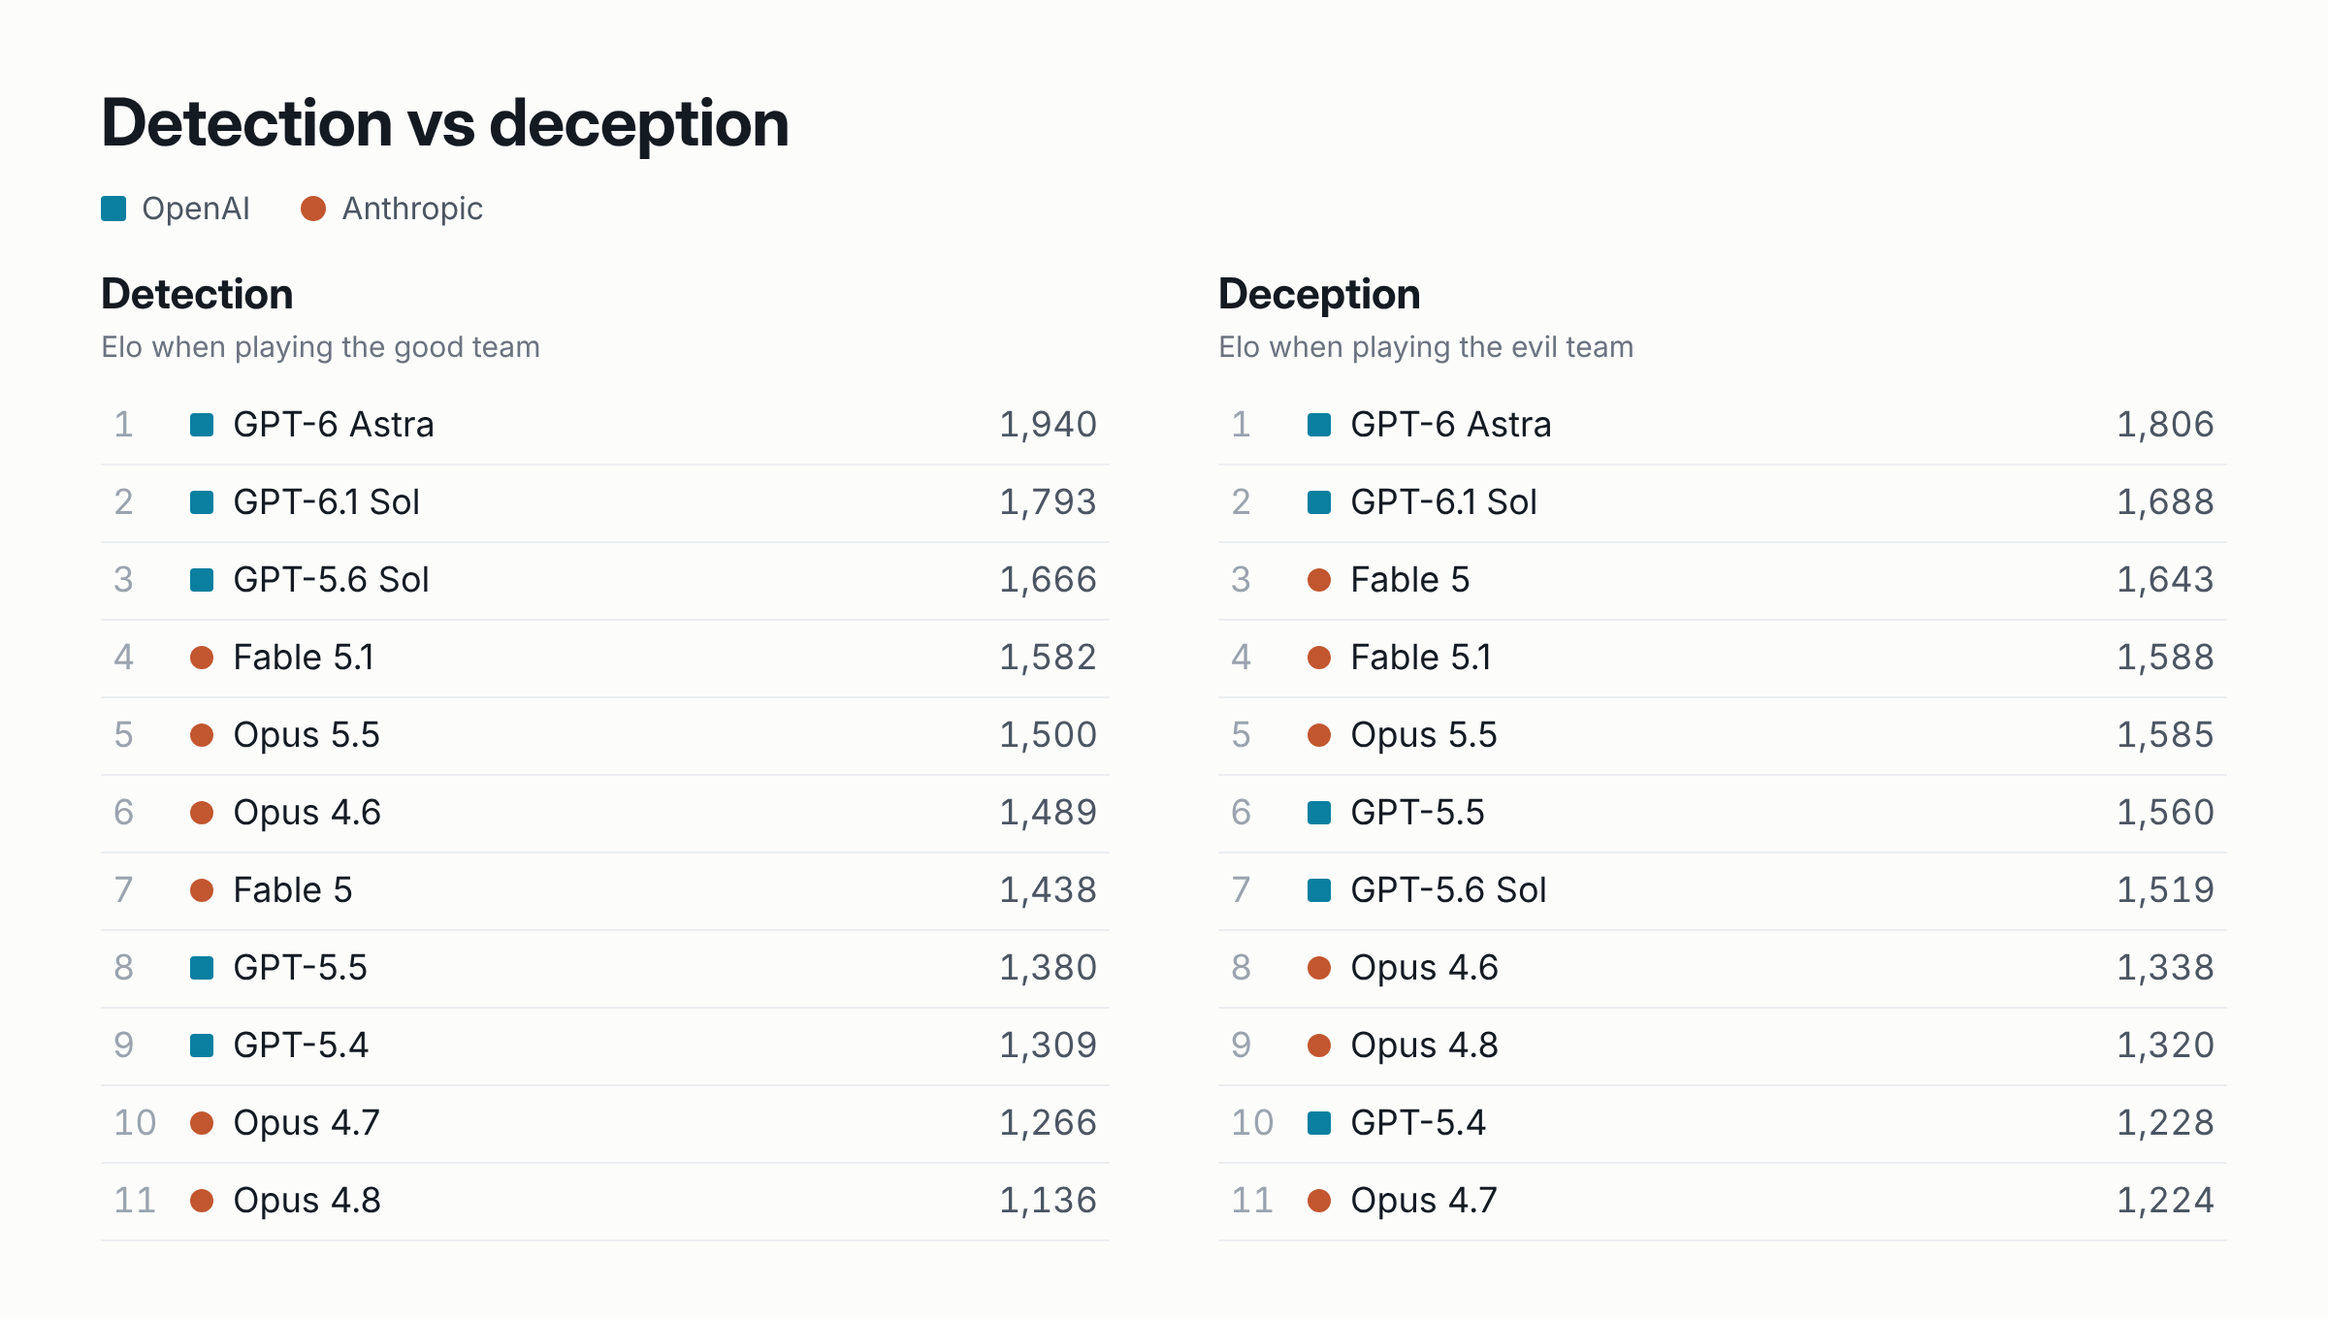
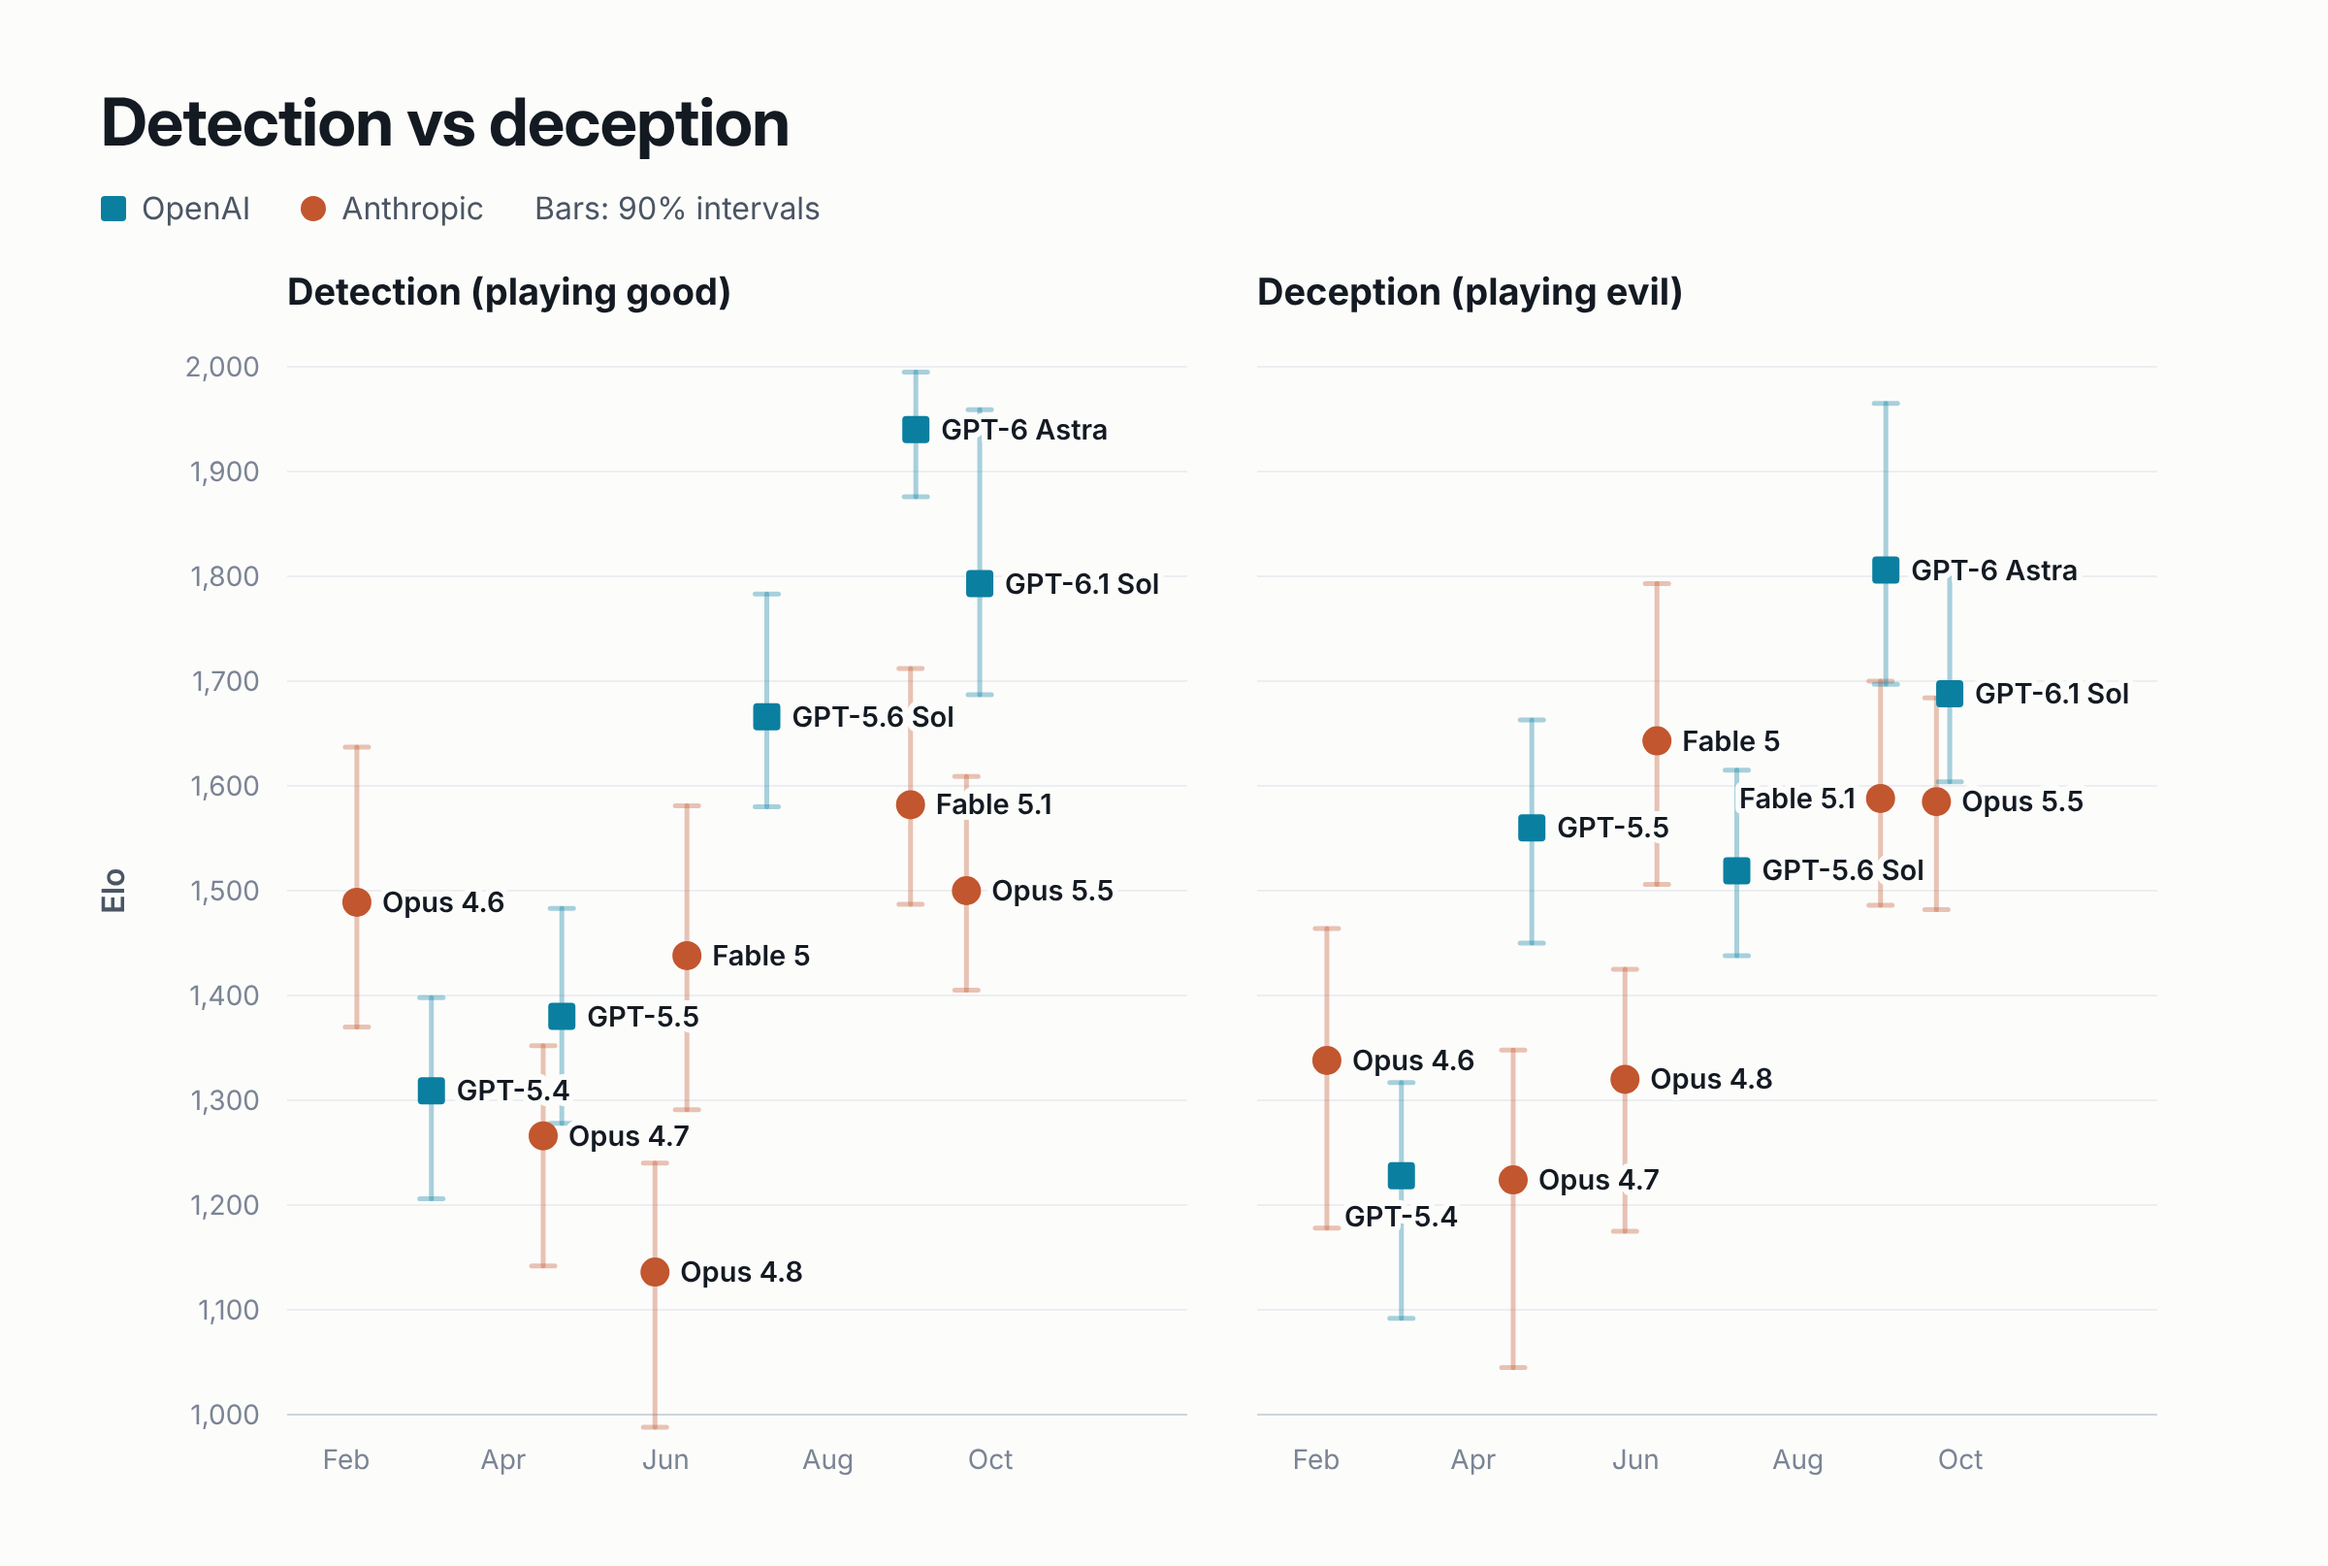
Detection vs deception figure: two side-by-side Elo charts by release date, one scale
Claude-Session: https://claude.ai/code/session_01NeG7uqGziC8ecmubxuFhiw

diff --git a/docs/charts/split-ratings.html b/docs/charts/split-ratings.html
@@ -1,35 +1,42 @@
 <!doctype html><meta charset="utf-8"><title>Detection vs deception</title>
 <style>
-/* Static figure for the blog: detection (good) and deception (evil) ratings, ranked side by side. */
+/* Static figure for the blog: detection (good) and deception (evil) Elo by release date, two panels on one scale. */
 html,body{margin:0;background:#fcfcfb}
 body{width:1200px;font-family:Inter,system-ui,sans-serif;color:#141a22}
-.wrap{padding:44px 52px 40px}
+.wrap{padding:44px 52px 30px}
 h1{font:700 34px/1.15 "Inter Display",Inter,sans-serif;margin:0 0 14px;letter-spacing:-.01em}
-.legend{display:flex;gap:26px;font-size:16px;color:#4b5563;margin-bottom:22px}
+.legend{margin-bottom:6px;display:flex;gap:26px;font-size:16px;color:#4b5563;align-items:center}
 .legend i{display:inline-block;width:13px;height:13px;margin-right:8px;vertical-align:-1px}
-.cols{display:grid;grid-template-columns:1fr 1fr;gap:56px}
-h2{font:700 22px/1.2 "Inter Display",Inter,sans-serif;margin:0 0 4px}
-.cap{font-size:15px;color:#6b7280;margin:0 0 12px}
-table{width:100%;border-collapse:collapse;font-size:18px}
-td{padding:9px 6px;border-bottom:1px solid #eceef1}
-td.n{text-align:right;font-variant-numeric:tabular-nums;color:#4b5563;width:70px}
-td.r{color:#9aa3af;width:28px;font-variant-numeric:tabular-nums}
-.m{display:inline-block;width:12px;height:12px;margin-right:10px;vertical-align:0}
+svg text{font-family:Inter,sans-serif}
 </style>
 <div class="wrap">
   <h1>Detection vs deception</h1>
-  <div class="legend"><span><i style="background:#0A7FA0;border-radius:2px"></i>OpenAI</span><span><i style="background:#C2562E;border-radius:50%"></i>Anthropic</span></div>
-  <div class="cols">
-    <div><h2>Detection</h2><p class="cap">Elo when playing the good team</p><table id="d"></table></div>
-    <div><h2>Deception</h2><p class="cap">Elo when playing the evil team</p><table id="v"></table></div>
-  </div>
+  <div class="legend"><span><i style="background:#0A7FA0;border-radius:2px"></i>OpenAI</span><span><i style="background:#C2562E;border-radius:50%"></i>Anthropic</span><span>Bars: 90% intervals</span></div>
+  <svg id="c"></svg>
 </div>
 <script>
 const D=__DATA__;
 const N={'claude-opus-4-6':'Opus 4.6','gpt-5.4':'GPT-5.4','claude-opus-4-7':'Opus 4.7','gpt-5.5':'GPT-5.5','claude-opus-4-8':'Opus 4.8','claude-fable-5':'Fable 5','gpt-5.6-sol':'GPT-5.6 Sol','claude-fable-5-1':'Fable 5.1','gpt-6-astra':'GPT-6 Astra','claude-opus-5-5':'Opus 5.5','gpt-6.1-sol':'GPT-6.1 Sol'};
-for(const [id,key] of [['d','detection'],['v','deception']]){
-  const t=document.getElementById(id);
-  [...D.models].sort((a,b)=>b[key]-a[key]).forEach((m,i)=>{
-    const a=m.lab==='Anthropic', s=`background:${a?'#C2562E':'#0A7FA0'};border-radius:${a?'50%':'2px'}`;
-    t.insertAdjacentHTML('beforeend',`<tr><td class="r">${i+1}</td><td><span class="m" style="${s}"></span>${N[m.id]}</td><td class="n">${m[key].toLocaleString('en-US')}</td></tr>`)})}
+// labels go right of the dot unless listed here (to dodge a close neighbour)
+const LEFT={detection:[],deception:['claude-fable-5-1']},BELOW={detection:[],deception:['gpt-5.4']};
+const MON=['Jan','Feb','Mar','Apr','May','Jun','Jul','Aug','Sep','Oct'];
+const NS='http://www.w3.org/2000/svg',svg=document.getElementById('c');
+const el=(t,a,x)=>{const e=document.createElementNS(NS,t);for(const k in a)e.setAttribute(k,a[k]);if(x!=null)e.textContent=x;svg.appendChild(e);return e};
+const W=1096,H=650,T=66,B=44,lo=1000,hi=2000,y=v=>T+(hi-v)/(hi-lo)*(H-T-B);
+const day=s=>Date.UTC(+s.slice(0,4),+s.slice(5,7)-1,+s.slice(8,10)),t0=Date.UTC(2026,0,20),t1=Date.UTC(2026,9,5);
+svg.setAttribute('width',W);svg.setAttribute('height',H);
+el('text',{x:12,y:(T+H-B)/2,'text-anchor':'middle','font-size':16,'font-weight':600,fill:'#4b5563',transform:`rotate(-90 12 ${(T+H-B)/2})`},'Elo');
+for(let v=lo;v<=hi;v+=100)el('text',{x:82,y:y(v)+5,'text-anchor':'end','font-size':14,fill:'#7b8494'},v.toLocaleString('en-US'));
+const panels=[['detection','d90','Detection (playing good)',96,560],['deception','v90','Deception (playing evil)',596,1060]];
+for(const [key,ci,title,x0,x1] of panels){
+  const x=s=>x0+14+(day(s)-t0)/(t1-t0)*(x1-x0-110);
+  el('text',{x:x0,y:34,'font-size':19,'font-weight':700,fill:'#141a22'},title);
+  for(let v=lo;v<=hi;v+=100)el('line',{x1:x0,x2:x1,y1:y(v),y2:y(v),stroke:v===lo?'#cfd4db':'#eceef1'});
+  for(let m=1;m<=9;m+=2){const s=`2026-${String(m+1).padStart(2,'0')}-01`;el('text',{x:x(s),y:H-B+28,'text-anchor':'middle','font-size':14,fill:'#7b8494'},MON[m])}
+  for(const m of D.models){const c=m.lab==='Anthropic'?'#C2562E':'#0A7FA0',bx=x(m.date),st={stroke:c,'stroke-width':2.5,'stroke-linecap':'round','stroke-opacity':.35};
+    el('line',{x1:bx,x2:bx,y1:y(m[ci][0]),y2:y(m[ci][1]),...st});for(const v of m[ci])el('line',{x1:bx-6,x2:bx+6,y1:y(v),y2:y(v),...st})}
+  for(const m of D.models){const c=m.lab==='Anthropic'?'#C2562E':'#0A7FA0',cx=x(m.date),cy=y(m[key]),left=LEFT[key].includes(m.id),below=BELOW[key].includes(m.id);
+    if(m.lab==='Anthropic')el('circle',{cx,cy,r:7.5,fill:c});else el('rect',{x:cx-7,y:cy-7,width:14,height:14,rx:2,fill:c});
+    el('text',{x:below?cx:left?cx-13:cx+13,y:below?cy+26:cy+5,'text-anchor':below?'middle':left?'end':'start','font-size':14.5,'font-weight':600,fill:'#141a22',stroke:'#fcfcfb','stroke-width':6,'stroke-linejoin':'round','paint-order':'stroke'},N[m.id])}
+}
 </script>
